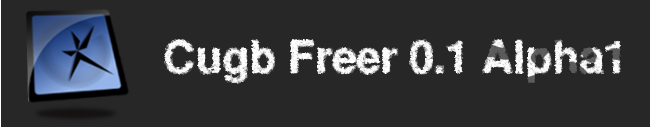
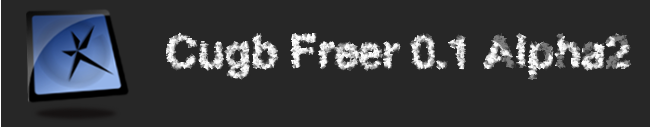
Add encrypt and decrypt functions, packed for version 0.1 Alpha2.

Changed region(s): [[0.2462, 0.25, 0.9846, 0.6562]]

diff --git a/src/connection.c b/src/connection.c
@@ -9,7 +9,7 @@ enum {
     CF_TIMEOUT_120MIN
 };
 typedef struct {
-    const gchar *username, *password;
+    gchar *username, *password;
     gboolean range, timeout;
     gboolean savepass, autoconnect;
 } connect_data;
@@ -49,11 +49,13 @@ static void connect_init (GtkWidget *connect_btn) {
         cdata.password = cf_key_file_get_value ("Linker", "password");
         cdata.autoconnect = cf_key_file_get_boolean ("Linker", "autoconnect");
         gtk_entry_set_text (GTK_ENTRY (cwidgets.user_entry), cdata.username);
-        gtk_entry_set_text (GTK_ENTRY (cwidgets.pass_entry), cdata.password);
+        gtk_entry_set_text (GTK_ENTRY (cwidgets.pass_entry), cf_decrypt (cdata.password));
         gtk_toggle_button_set_active (GTK_TOGGLE_BUTTON (cwidgets.autoconnect_btn), cdata.autoconnect);
         if (cdata.autoconnect) {
             gtk_button_clicked (GTK_BUTTON (connect_btn));
         }
+        g_free (cdata.username);
+        g_free (cdata.password);
     }
 }
 static void connect_action (connect_data cdata, gchar *operation) {
@@ -89,7 +91,6 @@ static void connect_action (connect_data cdata, gchar *operation) {
             "Content-Type: application/x-www-form-urlencoded\r\n"
             "Length: %d\r\n\r\n%s",
             length, length, request);
-    printf ("%s\n", message);
     // connect
     conn = connect (sockfd, (struct sockaddr *) &server_addr, sizeof (struct sockaddr));
     if (conn == -1) {
@@ -103,8 +104,8 @@ static void connect_action (connect_data cdata, gchar *operation) {
 }
 static void connect_btn_clicked (GtkWidget *widget, gpointer operation) {
     connect_data cdata;
-    cdata.username = gtk_entry_get_text (GTK_ENTRY (cwidgets.user_entry));
-    cdata.password = gtk_entry_get_text (GTK_ENTRY (cwidgets.pass_entry));
+    cdata.username = (gchar *) gtk_entry_get_text (GTK_ENTRY (cwidgets.user_entry));
+    cdata.password = (gchar *) gtk_entry_get_text (GTK_ENTRY (cwidgets.pass_entry));
     cdata.range = gtk_toggle_button_get_active (GTK_TOGGLE_BUTTON (cwidgets.range_btn));
     cdata.timeout = gtk_toggle_button_get_active (GTK_TOGGLE_BUTTON (cwidgets.timeout_btn));
     cdata.savepass = gtk_toggle_button_get_active (GTK_TOGGLE_BUTTON (cwidgets.savepass_btn));
@@ -120,7 +121,7 @@ static void connect_btn_clicked (GtkWidget *widget, gpointer operation) {
         }
         if (cdata.savepass) {
             cf_key_file_set_value ("Linker", "username", cdata.username);
-            cf_key_file_set_value ("Linker", "password", cdata.password);
+            cf_key_file_set_value ("Linker", "password", cf_encrypt (cdata.password));
             cf_key_file_set_boolean ("Linker", "autoconnect", cdata.autoconnect);
         }
         cf_key_file_set_boolean ("Linker", "range", cdata.range);

diff --git a/src/misc.c b/src/misc.c
@@ -35,6 +35,26 @@ gboolean cf_write (const gchar *file, const gchar *data) {
         return FALSE;
     }
 }
+gchar *cf_encrypt (const gchar *text) {
+    gint i;
+    gchar *encrypted_text;
+    // encrypted_text should be freed when no longer needed
+    encrypted_text = g_strdup (text);
+    for (i = 0; encrypted_text [i] != '\0'; i++) {
+        encrypted_text [i] = encrypted_text [i] ^ CF_ENCRYPT_KEY;
+    }
+    return encrypted_text;
+}
+gchar *cf_decrypt (const gchar *text) {
+    gint i;
+    gchar *decrypted_text;
+    // decrypted_text should be freed when no longer needed
+    decrypted_text = g_strdup (text);
+    for (i = 0; decrypted_text [i] != '\0'; i++) {
+        decrypted_text [i] = decrypted_text [i] ^ CF_ENCRYPT_KEY;
+    }
+    return decrypted_text;
+}
 gboolean cf_main_quit (GtkWidget *widget, GdkEvent *event, gpointer data) {
     cf_key_file_save ();
     gtk_main_quit ();

diff --git a/src/misc.h b/src/misc.h
@@ -6,8 +6,11 @@
 #include "keyfile.h"
 
 #define LINK_OPEN_CMD "xdg-open"
+#define CF_ENCRYPT_KEY 17
 
 void cf_show_error (void);
+gchar *cf_encrypt (const gchar *text);
+gchar *cf_decrypt (const gchar *text);
 void cf_open_link (const gchar *link_);
 void cf_error_dialog (const gchar *message);
 gboolean cf_write (const gchar *file, const gchar *data);

diff --git a/src/cugbfreer.h b/src/cugbfreer.h
@@ -5,7 +5,7 @@
 #include <glib/gi18n.h>
 
 #define APP_NAME "Cugb Freer"
-#define APP_VERSION "0.1 Alpha1"
+#define APP_VERSION "0.1 Alpha2"
 #define APP_URL "http://www.tofree.org/"
 
 #endif
